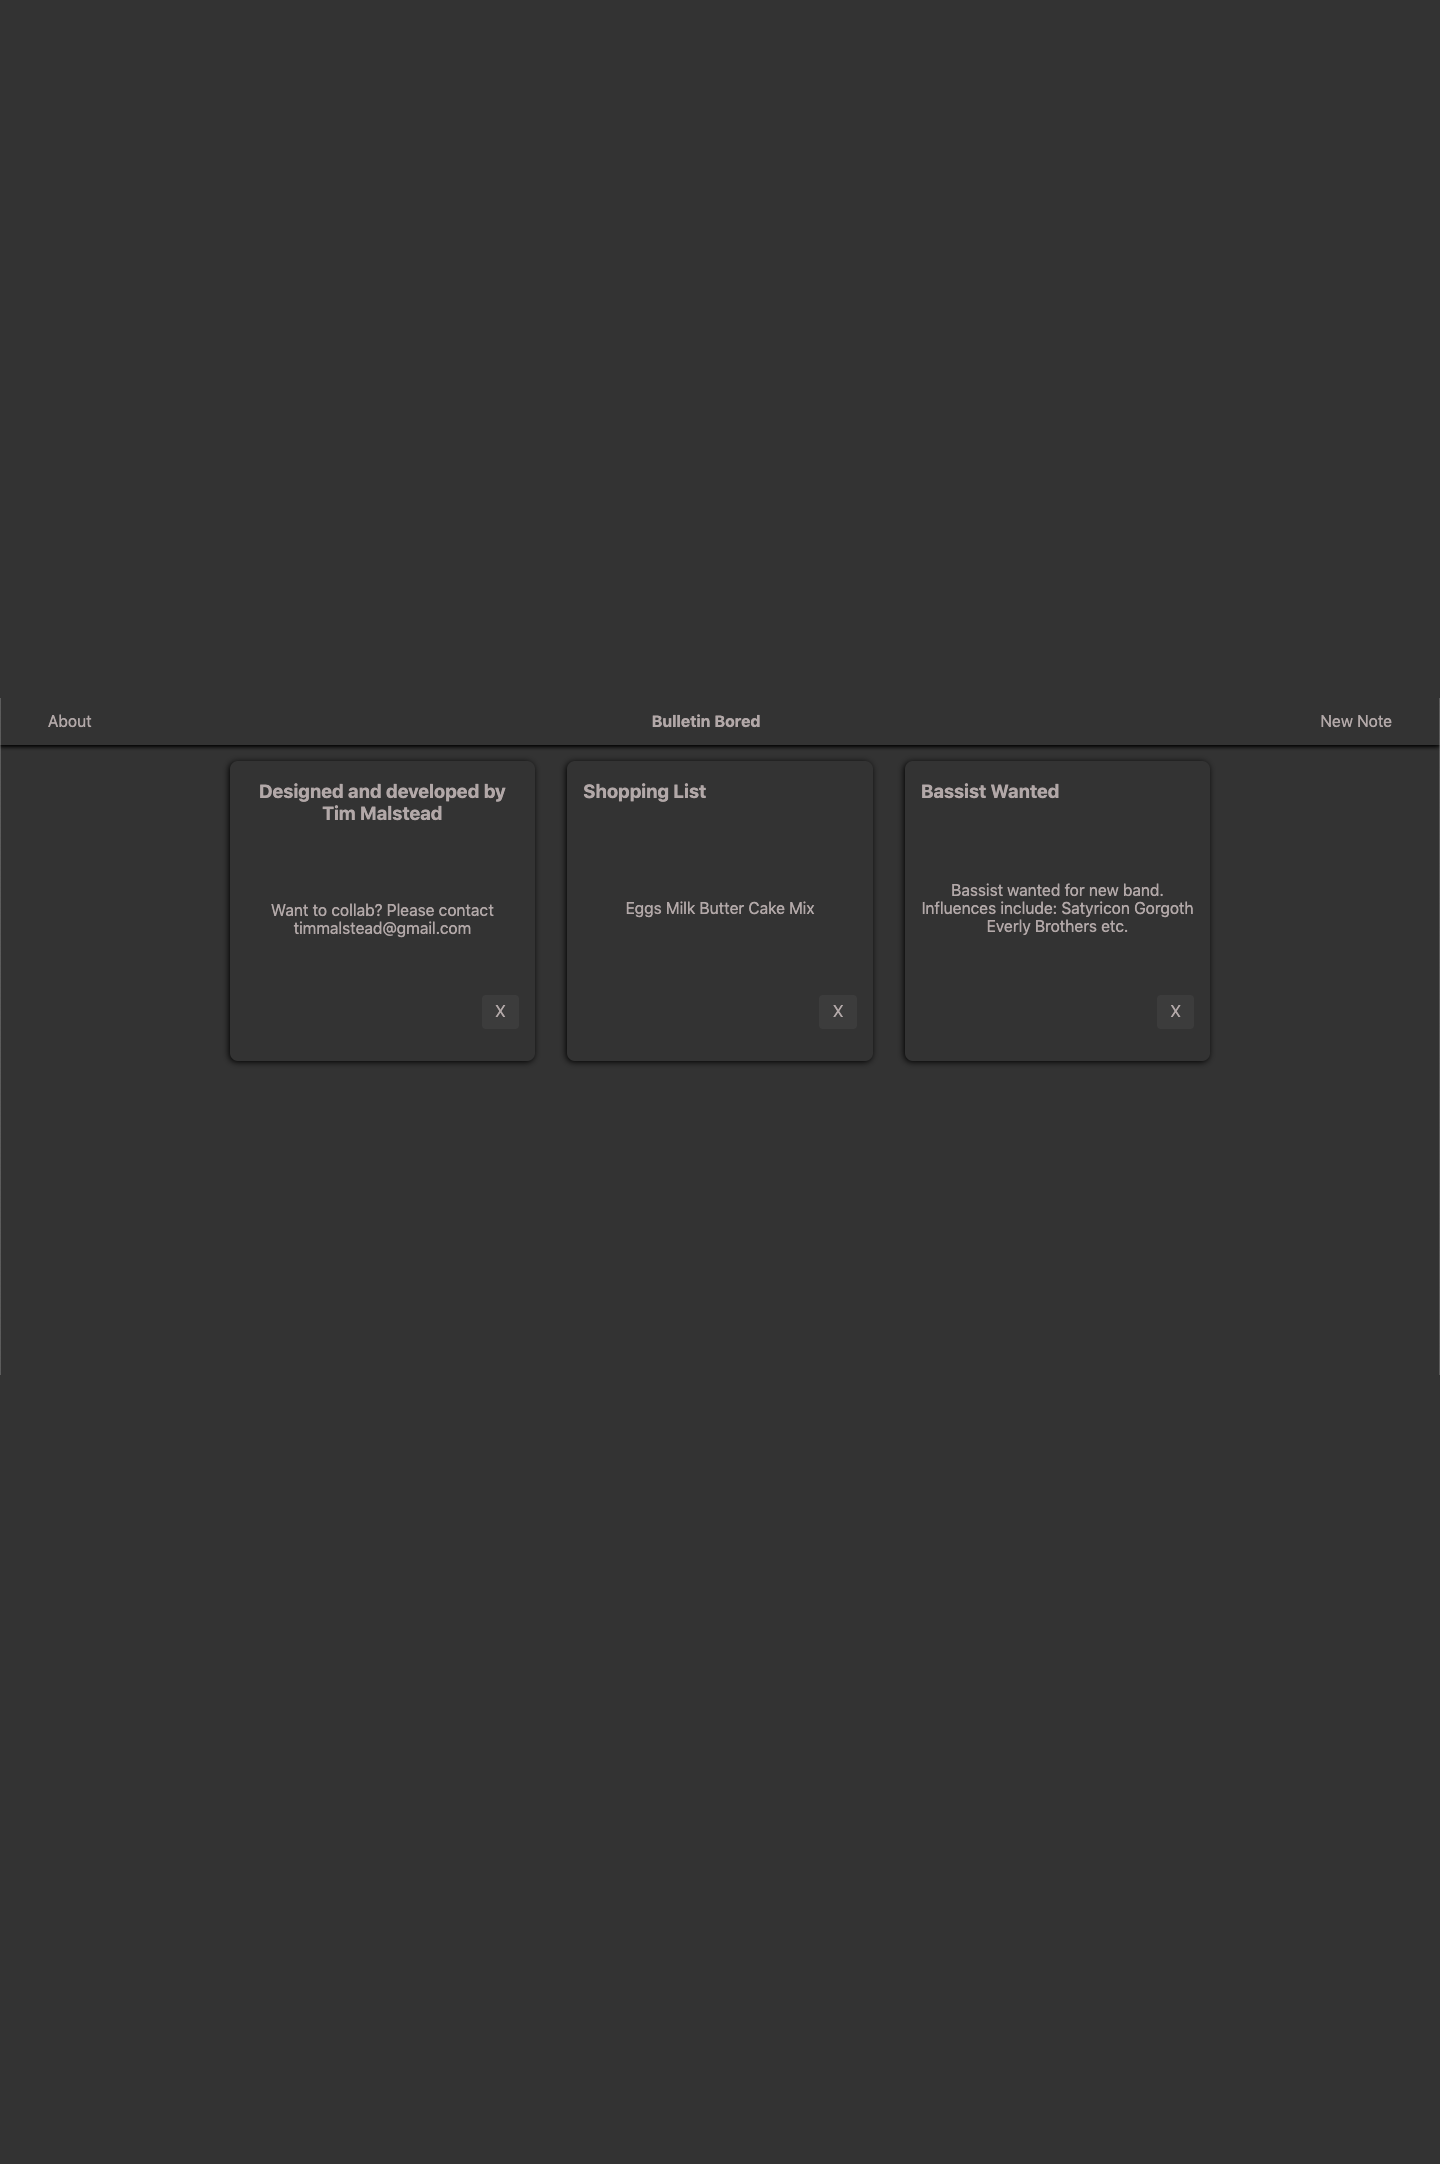
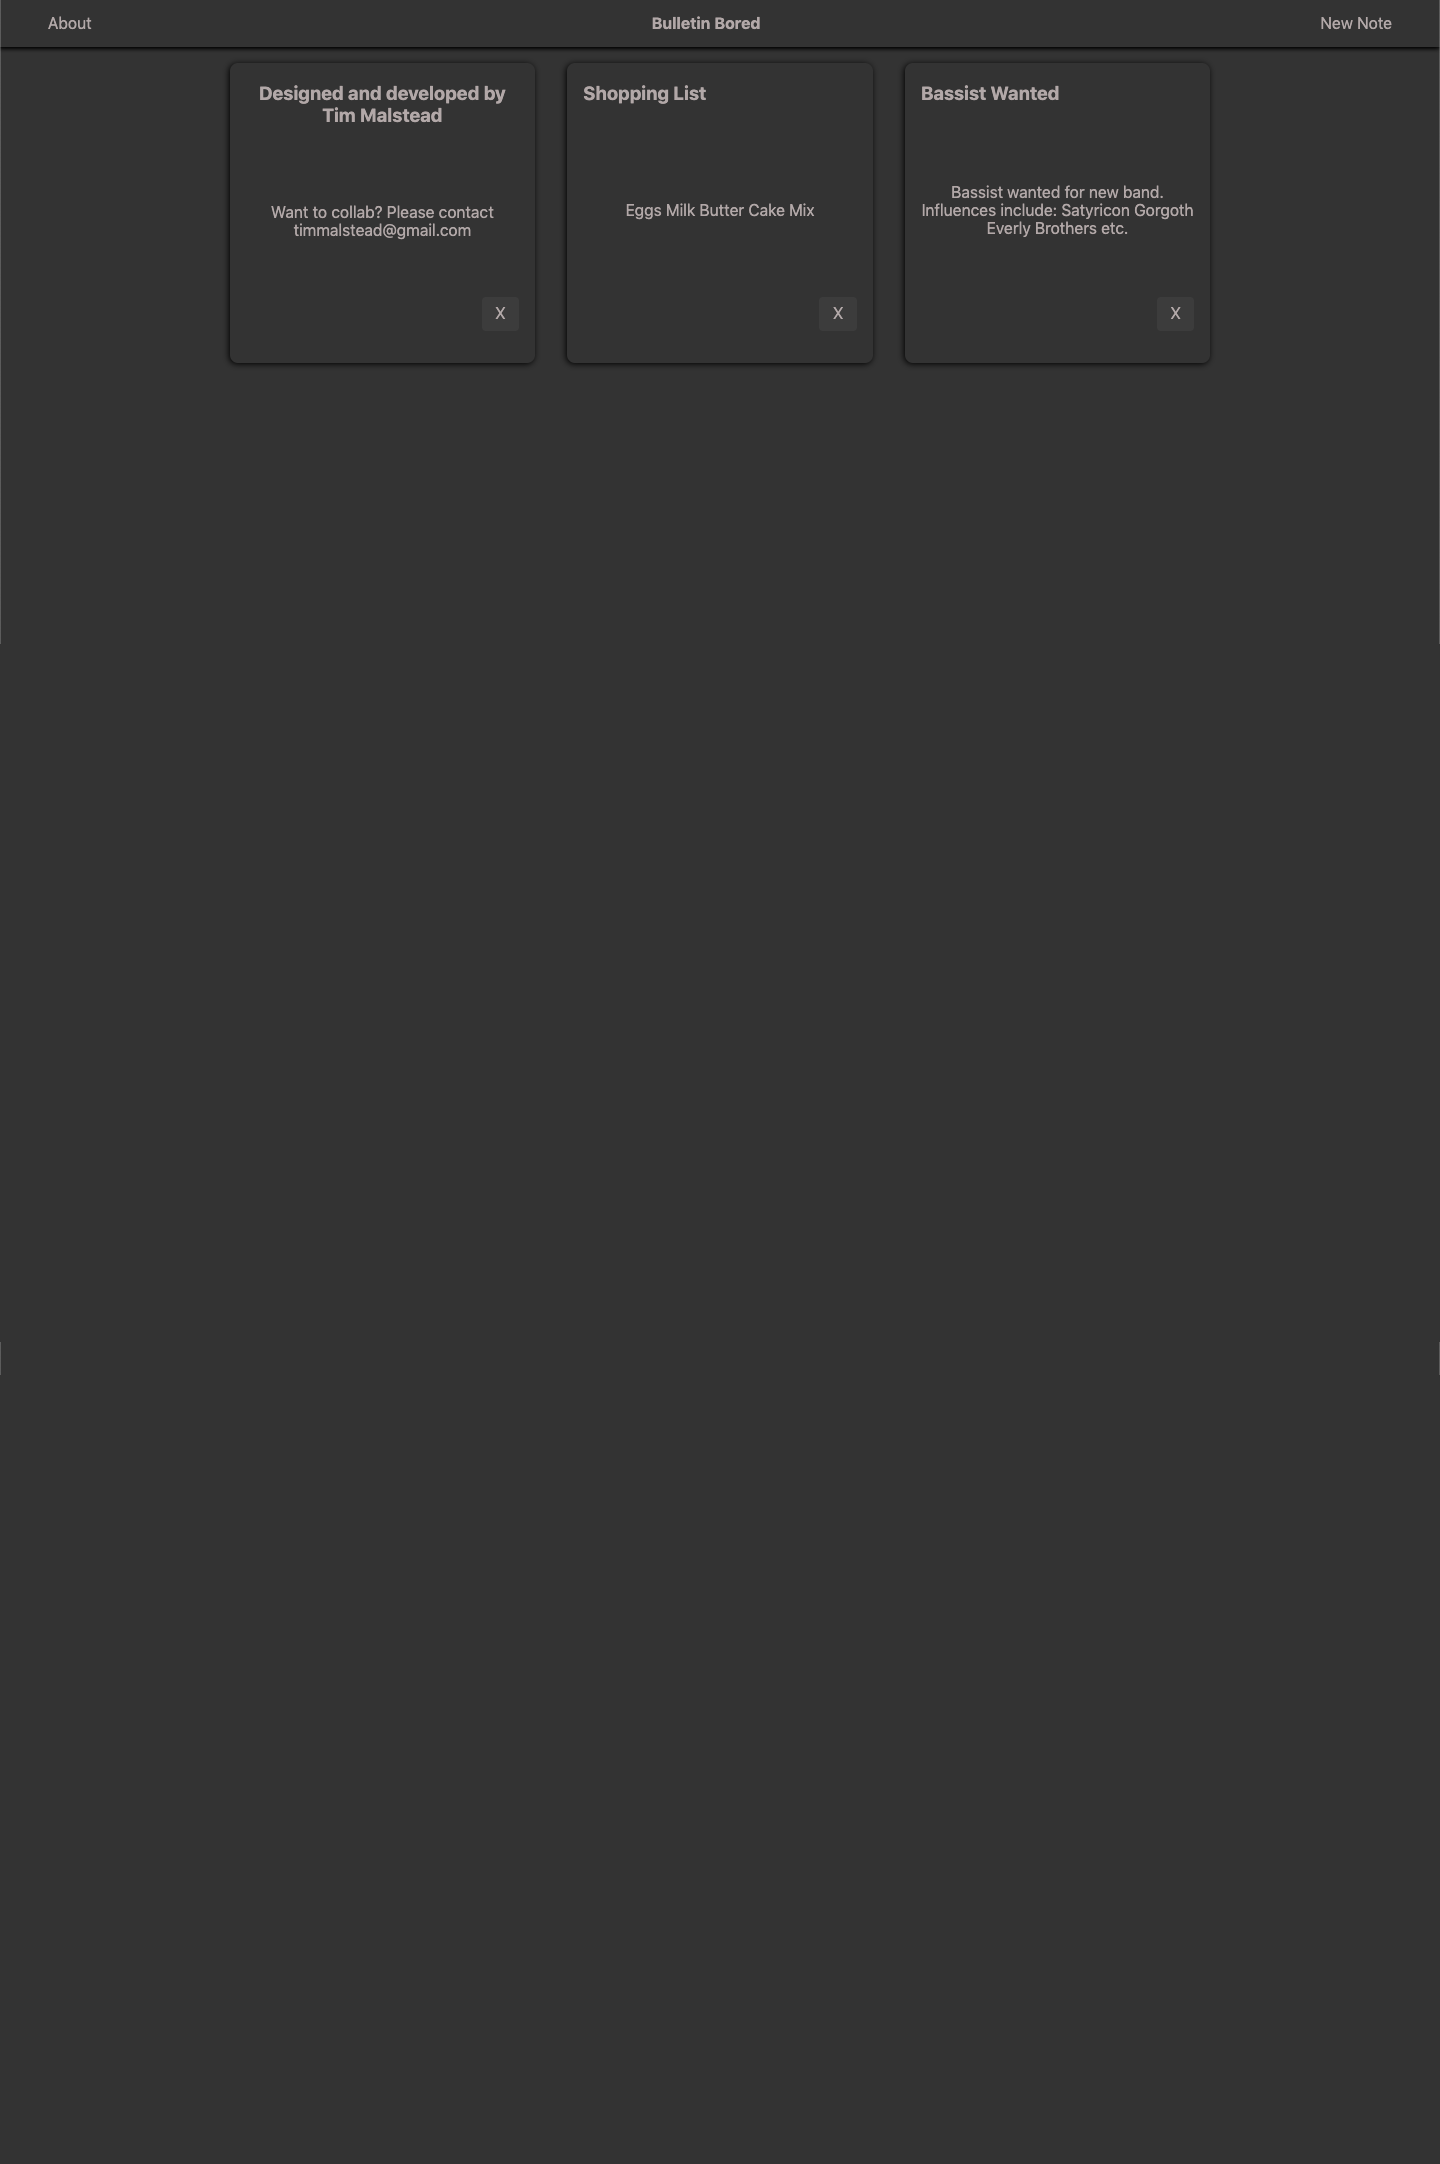
adds mobile views in project views

diff --git a/src/Projects/projects.js b/src/Projects/projects.js
@@ -2,15 +2,18 @@ import FPCHackathon from "./FPCHackathon.png"
 import homeUniteUs from "./homeUniteUs.png"
 import sirvy from "./sirvy.png"
 import columnGenerator from "./columnGenerator.png"
+import columnGeneratorMobile from "./columnGeneratorMobile.png"
 import bagOfHolding from "./bagOfHolding.png"
-import nightIn from "./nightIn.png"
 import bulletinBored from "./bulletinBored.png"
+import bulletinBoredMobile from "./bulletinBoredMobile.png"
+import nightIn from "./nightIn.png"
 import flashLights from "./flashLights.png"
 
 const folioProjects = [
   {
     title: "LAFPC Dashboard",
     fullImage: FPCHackathon,
+    mobileImage: false,
     link: "https://lafpc-hackathon-dashboard.herokuapp.com/",
     github: "https://github.com/timmalstead/LAFPC_Hackathon_Final_Deployed",
     role: "Full Stack Developer",
@@ -21,6 +24,7 @@ const folioProjects = [
   {
     title: "Home Unite Us",
     fullImage: homeUniteUs,
+    mobileImage: false,
     link: "https://lacommunity.site/hosthome/",
     github: "https://github.com/hackforla/HomeUniteUs",
     role: "Lead Front End Developer",
@@ -31,6 +35,7 @@ const folioProjects = [
   {
     title: "Sirvy",
     fullImage: sirvy,
+    mobileImage: false,
     link: "https://sirvy.herokuapp.com/",
     github: "https://github.com/timmalstead/sirvy",
     role: "Full Stack Developer & UI Designer",
@@ -41,6 +46,7 @@ const folioProjects = [
   {
     title: "The Thomas Friedman Column Generator",
     fullImage: columnGenerator,
+    mobileImage: columnGeneratorMobile,
     link: "https://veryimportantcolumngenerator.herokuapp.com/",
     github: "https://github.com/timmalstead/Very_Important_Column_Generator",
     role: "Full Stack Developer & Designer",
@@ -51,6 +57,7 @@ const folioProjects = [
   {
     title: "Bag of Holding",
     fullImage: bagOfHolding,
+    mobileImage: false,
     link: "https://timmalstead.github.io/bagofholding/",
     github: "https://github.com/timmalstead/bagofholding",
     role: "Front End Developer, Writer & Illustrator",
@@ -59,8 +66,20 @@ const folioProjects = [
     center: false,
   },
   {
+    title: "Bulletin Bored",
+    fullImage: bulletinBored,
+    mobileImage: bulletinBoredMobile,
+    link: "https://bulletinbored.herokuapp.com/",
+    github: "https://github.com/timmalstead/bulletinbored",
+    role: "Full Stack Developer & UI Designer",
+    description:
+      "A note taking app created to further my understanding of React Hooks and GraphQL",
+    center: false,
+  },
+  {
     title: "Night In",
     fullImage: nightIn,
+    mobileImage: false,
     link: "https://night-in.herokuapp.com/",
     github: "https://github.com/timmalstead/Night_in_front_end",
     role: "Lead Front End Developer & UI Designer",
@@ -69,18 +88,9 @@ const folioProjects = [
     center: true,
   },
   {
-    title: "Bulletin Bored",
-    fullImage: bulletinBored,
-    link: "https://bulletinbored.herokuapp.com/",
-    github: "https://github.com/timmalstead/bulletinbored",
-    role: "Full Stack Developer & UI Designer",
-    description:
-      "A note taking app created to further my understanding of React Hooks and GraphQL",
-    center: true,
-  },
-  {
     title: "Flash.Lights.",
     fullImage: flashLights,
+    mobileImage: false,
     link: "https://timmalstead.github.io/flash_lights/",
     github: "https://github.com/timmalstead/flash_lights",
     role: "Front End Developer & Designer",

diff --git a/src/Projects/index.js b/src/Projects/index.js
@@ -6,13 +6,37 @@ import Context from "../ThemeContext"
 const Projects = () => {
   const { secondaryColor, contrastOne } = React.useContext(Context).styles
 
+  const fullPics = folioProjects.reduce((arr, val) => {
+    arr.push(val.fullImage)
+    return arr
+  }, [])
+
+  const mobilePics = folioProjects.reduce((arr, val) => {
+    arr.push(val.mobileImage || val.fullImage)
+    return arr
+  }, [])
+
+  const [picturesToRender, changePictureSet] = React.useState(
+    window.innerWidth > 800 ? fullPics : mobilePics
+  )
+
+  React.useEffect(() => {
+    const firePictureChange = () => {
+      window.innerWidth > 800
+        ? changePictureSet(fullPics)
+        : changePictureSet(mobilePics)
+    }
+
+    window.addEventListener("resize", firePictureChange)
+
+    return () => window.removeEventListener("resize", firePictureChange)
+  })
+
   const linkMaker = (link, content) => (
     <a href={link} target="_blank" rel="noopener noreferrer">
       {content}
     </a>
   )
-
-  //need to center bottom three profile pics and unify lengths.
 
   return (
     <Style.AllProjectsHolder>
@@ -28,7 +52,7 @@ const Projects = () => {
           >
             {linkMaker(
               project.link,
-              <Style.Image alt={project.title} src={project.fullImage} />
+              <Style.Image alt={project.title} src={picturesToRender[i]} />
             )}
           </Style.ImageHolder>
           <Style.InfoHolder>

diff --git a/src/App.js b/src/App.js
@@ -19,7 +19,6 @@ const App = () => {
   const storage = window.localStorage
 
   const [styles, changeStyle] = React.useState({
-    loadAnimations: storage.loadAnimations || true,
     mainColor: storage.mainColor || "#212123",
     secondaryColor: storage.secondaryColor || "#585b60",
     headerColor: storage.headerColor || "#212123",

diff --git a/src/navRoutes.js b/src/navRoutes.js
@@ -1,7 +1,7 @@
 import React from "react"
+import About from "./About"
 import Projects from "./Projects"
 import Techs from "./Techs"
-import About from "./About"
 
 // prettier-ignore
 const NavRoutes = [

diff --git a/README.md b/README.md
@@ -4,6 +4,7 @@
 //PROJECTS
 //hover over the pics and it will use a transition to size up the pic to make it bigger. probably do this with a transition in color and blending too
 //change bulletin bored centering? fill up with things instead?
+//refactor sirvy to resize graph better
 
 //PRINT, ILLO AND OTHER CREATIVE WORK
 
